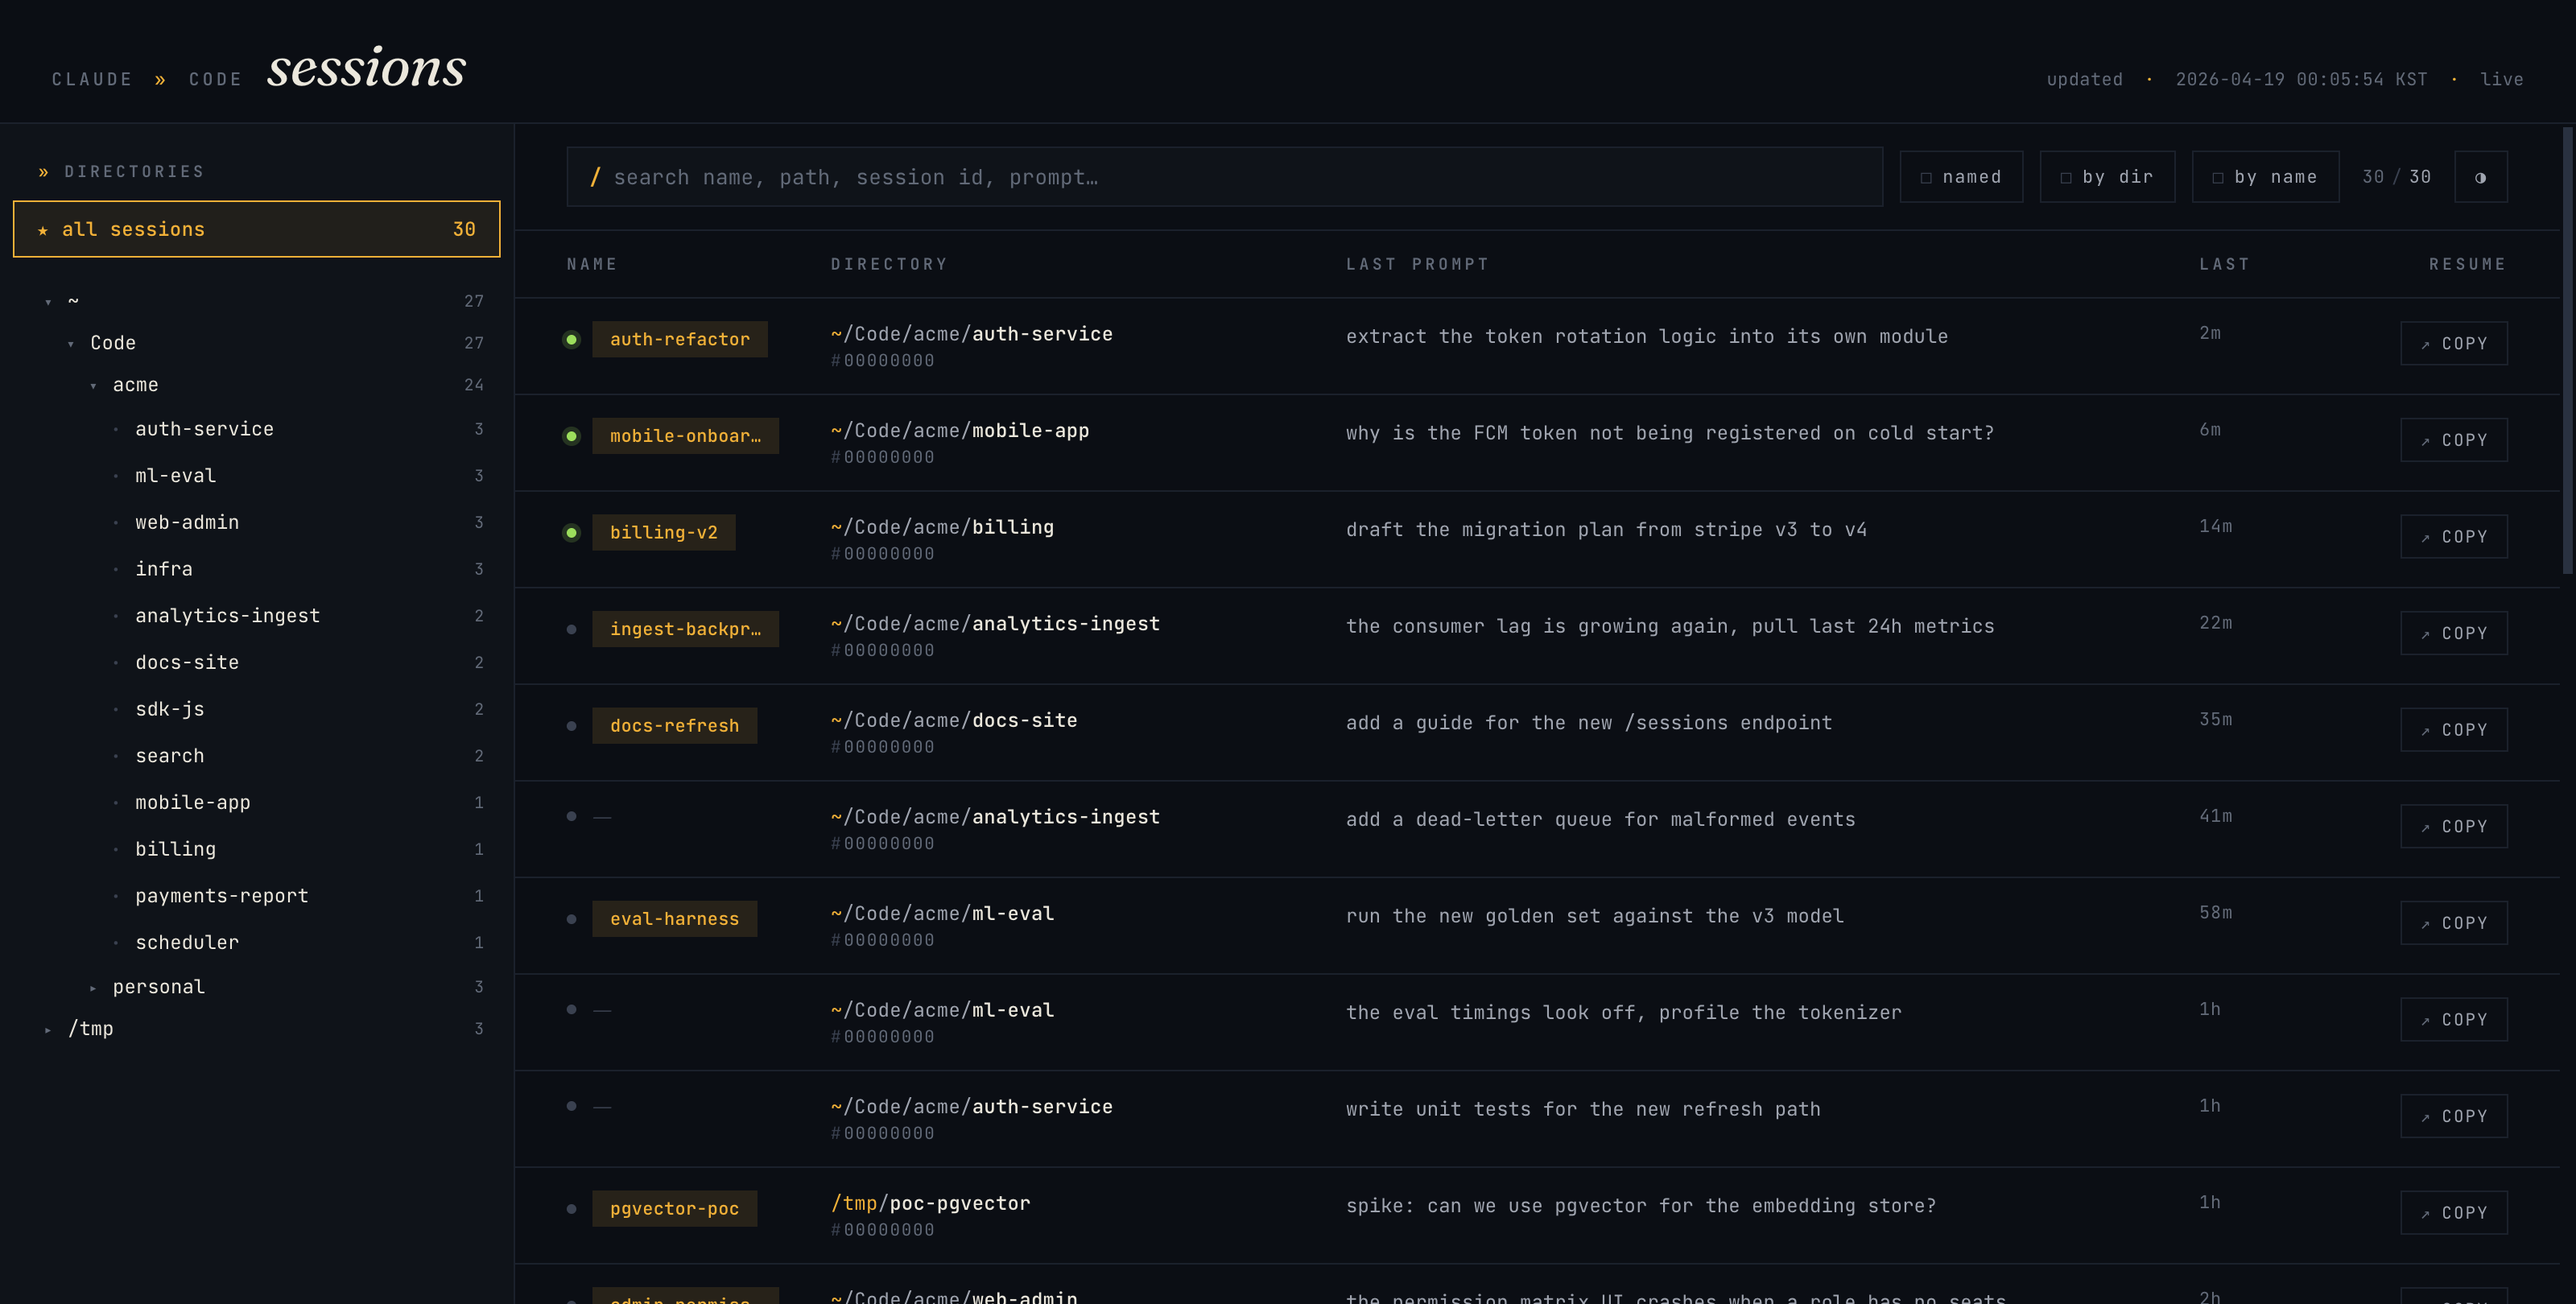
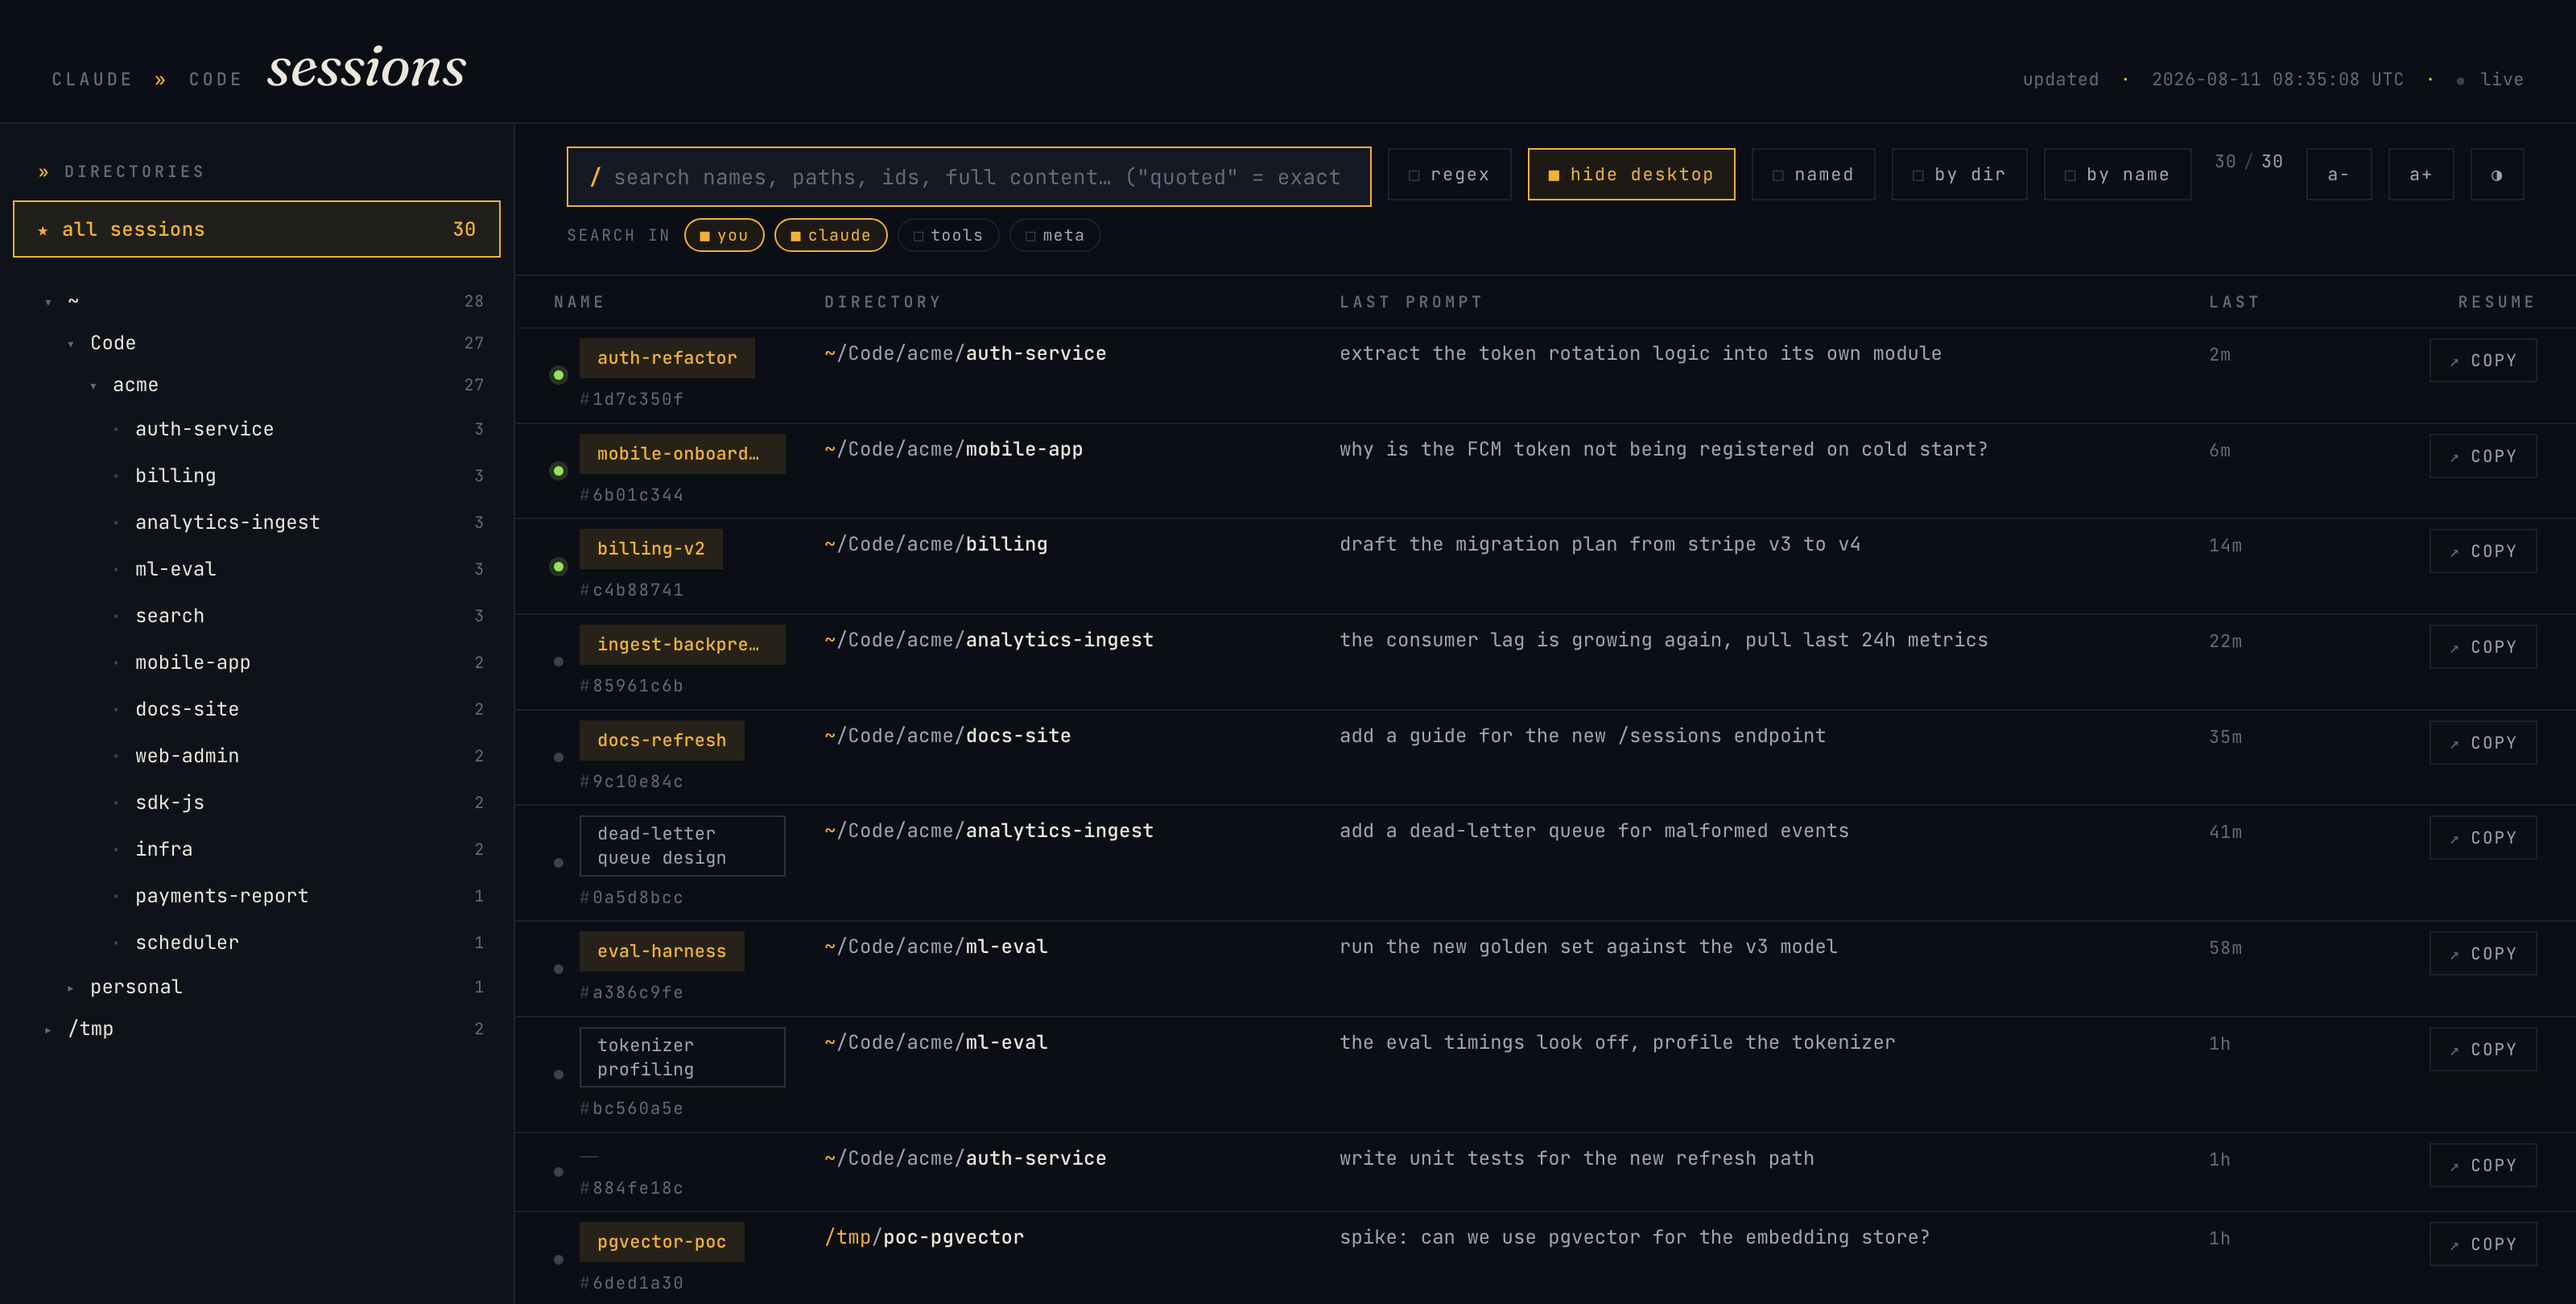
Synthesise test fixtures, refresh the screenshot, document cleanupPeriodDays
The phrase-search fixtures were lifted verbatim from a real work notification.
This repo is public and its own rules forbid committing real session text, so
they are now synthetic; the assertions are unchanged (word count, the reversed
scramble, and the two-message split all still hold, so the test proves the same
properties).

docs/screenshot.png predated the role-filter row, the regex / hide desktop
toggles and the current placeholder. Regenerated — and the generator now lives
in tools/ instead of being rewritten from scratch each time it vanishes from
/tmp. It rewrites the one real value the served page carries (the baked-in
HOME) and hard-asserts that substitution happened, so a template change fails
loudly rather than leaking a path into a committed image.

README gains a note that Claude Code deletes session files older than
cleanupPeriodDays at startup — 30 days by default, which silently caps how far
back reclaude can see.

diff --git a/tools/make-demo-screenshot.py b/tools/make-demo-screenshot.py
@@ -1,0 +1,109 @@
+#!/usr/bin/env python3
+"""Build docs/screenshot.png from synthetic rows. NEVER use real session data —
+this repo is public.
+
+  curl -s http://127.0.0.1:9999/ > /tmp/sample-for-screenshot.html
+  python3 tools/make-demo-screenshot.py
+  "/Applications/Google Chrome.app/Contents/MacOS/Google Chrome" --headless \
+    --disable-gpu --hide-scrollbars --force-device-scale-factor=2 \
+    --window-size=1600,810 --screenshot=docs/screenshot.png \
+    file:///tmp/sample-for-screenshot-demo.html
+
+The page's own script opens an EventSource on a relative /events, which fails
+under file://; we then call applySnapshot() ourselves with the demo rows.
+"""
+import hashlib
+import json
+import pathlib
+import re
+import time
+
+SRC = pathlib.Path("/tmp/sample-for-screenshot.html")
+DST = pathlib.Path("/tmp/sample-for-screenshot-demo.html")
+FAKE_HOME = "/Users/dev"
+
+
+def sid(seed: str) -> str:
+    h = hashlib.sha256(seed.encode()).hexdigest()
+    return f"{h[:8]}-{h[8:12]}-{h[12:16]}-{h[16:20]}-{h[20:32]}"
+
+
+# (name, ai_title, dir, prompt, minutes-ago, active)
+DEMO = [
+    ("auth-refactor", None, "Code/acme/auth-service", "extract the token rotation logic into its own module", 2, True),
+    ("mobile-onboarding", None, "Code/acme/mobile-app", "why is the FCM token not being registered on cold start?", 6, True),
+    ("billing-v2", None, "Code/acme/billing", "draft the migration plan from stripe v3 to v4", 14, True),
+    ("ingest-backpressure", None, "Code/acme/analytics-ingest", "the consumer lag is growing again, pull last 24h metrics", 22, False),
+    ("docs-refresh", None, "Code/acme/docs-site", "add a guide for the new /sessions endpoint", 35, False),
+    (None, "dead-letter queue design", "Code/acme/analytics-ingest", "add a dead-letter queue for malformed events", 41, False),
+    ("eval-harness", None, "Code/acme/ml-eval", "run the new golden set against the v3 model", 58, False),
+    (None, "tokenizer profiling", "Code/acme/ml-eval", "the eval timings look off, profile the tokenizer", 63, False),
+    (None, None, "Code/acme/auth-service", "write unit tests for the new refresh path", 71, False),
+    ("pgvector-poc", None, "poc-pgvector", "spike: can we use pgvector for the embedding store?", 78, False),
+    ("admin-permissions", None, "Code/acme/web-admin", "the permission matrix UI crashes when a role has no seats", 96, False),
+    (None, "flaky checkout test triage", "Code/acme/billing", "checkout_spec fails once every ~20 CI runs, find the race", 112, False),
+    ("sdk-release", None, "Code/acme/sdk-js", "cut the 2.4 release notes from the merged PRs", 130, False),
+    (None, None, "Code/acme/search", "why does the synonym filter drop single-character tokens?", 147, False),
+    ("infra-costs", None, "Code/acme/infra", "break down last month's spend by service and flag outliers", 165, False),
+    (None, "index rebuild runbook", "Code/acme/search", "write the runbook for a zero-downtime index rebuild", 183, False),
+    ("payments-report", None, "Code/acme/payments-report", "reconcile the refunds table against the ledger export", 201, False),
+    (None, None, "Code/acme/mobile-app", "the deep link opens the wrong tab on android 15", 224, False),
+    ("scheduler-retry", None, "Code/acme/scheduler", "jobs retry forever when the worker dies mid-lease", 246, False),
+    (None, "webhook signature check", "Code/acme/billing", "verify the stripe webhook signature before parsing", 268, False),
+    ("docs-search", None, "Code/acme/docs-site", "the site search returns nothing for hyphenated terms", 295, False),
+    (None, None, "Code/acme/web-admin", "add an empty state to the audit log table", 318, False),
+    ("ml-eval-cache", None, "Code/acme/ml-eval", "cache embeddings between eval runs, keyed by model id", 340, False),
+    (None, "grafana alert cleanup", "Code/acme/infra", "half the alerts are noise, prune the ones nobody acts on", 372, False),
+    ("sdk-types", None, "Code/acme/sdk-js", "the generated types lose optionality on nested unions", 401, False),
+    (None, None, "personal/notes", "summarise what I changed across acme this week", 438, False),
+    ("search-relevance", None, "Code/acme/search", "tune BM25 so exact title matches outrank body matches", 470, False),
+    (None, "auth latency spike", "Code/acme/auth-service", "p99 on /token doubled after the pool change", 505, False),
+    ("analytics-schema", None, "Code/acme/analytics-ingest", "the event schema needs a version field before we fan out", 540, False),
+    (None, None, "scratch", "quick script to diff two json exports field by field", 585, False),
+]
+
+now = time.time()
+rows = []
+for i, (name, ai_title, d, prompt, mins, active) in enumerate(DEMO):
+    cwd = f"/tmp/{d}" if d in ("poc-pgvector", "scratch") else f"{FAKE_HOME}/{d}"
+    rows.append({
+        "session_id": sid(f"demo-{i}"),
+        "cwd": cwd,
+        "custom_title": name,
+        "ai_title": ai_title,
+        "last_prompt": prompt,
+        "entrypoint": "cli",
+        "mtime": now - mins * 60,
+        "size": 40_000 + i * 3_100,
+        "lines": 120 + i * 17,
+        "active": active,
+    })
+
+generated = time.strftime("%Y-%m-%d %H:%M:%S UTC", time.gmtime(now))
+html = SRC.read_text()
+# The server bakes the real $HOME into the page; swap it so no real path can
+# reach the committed screenshot.
+html, n = re.subn(r'const HOME = "[^"]*";', f'const HOME = "{FAKE_HOME}";', html, count=1)
+assert n == 1, "HOME constant not found — did build_html() change?"
+# Expand the directory tree so the screenshot shows it doing its job; the page
+# reads this key on load, so it has to be set before the module script runs.
+# Tree paths are the PRETTY segments the sidebar renders ("~/Code/acme"), not
+# the real cwd — see buildTree()/prettySegs().
+tree_open = json.dumps(["~", "~/Code", "~/Code/acme"])
+preload = (
+    "<script>\n"
+    f"localStorage.setItem('sessions-tree-expanded', {json.dumps(tree_open)});\n"
+    "</script>\n"
+)
+assert "<script>" in html
+html = html.replace("<script>", preload + "<script>", 1)
+inject = (
+    "<script>\n"
+    "// screenshot fixture: synthetic rows, no real session data\n"
+    f"applySnapshot({json.dumps(rows, ensure_ascii=False)}, {json.dumps(generated)});\n"
+    "</script>\n"
+)
+assert "</body>" in html
+html = html.replace("</body>", inject + "</body>")
+DST.write_text(html)
+print(f"wrote {DST} ({len(html)} bytes, {len(rows)} rows)")

diff --git a/tests/test_phrase_search.py b/tests/test_phrase_search.py
@@ -48,11 +48,11 @@ def main() -> None:
         ordered = projects / "proj" / "session-ordered.jsonl"
         scrambled = projects / "proj" / "session-scrambled.jsonl"
         split = projects / "proj" / "session-split.jsonl"
-        make_jsonl(ordered, [("user", "메일 제목: 숙소 상태 정보 검토 안내 입니다")])
-        make_jsonl(scrambled, [("user", "안내 검토 정보 상태 숙소 순서가 뒤바뀐 문장")])
+        make_jsonl(ordered, [("user", "문서 제목: 색인 구조 변경 기록 초안 입니다")])
+        make_jsonl(scrambled, [("user", "초안 기록 변경 구조 색인 순서가 뒤바뀐 문장")])
         # every phrase word is in the file, but spread across two messages —
         # a phrase must land inside ONE message, so this must not match either.
-        make_jsonl(split, [("user", "숙소 상태"), ("assistant", "정보 검토 안내")])
+        make_jsonl(split, [("user", "색인 구조"), ("assistant", "변경 기록 초안")])
 
         def ids(q: str, roles: set[str] | None = None) -> set[str]:
             sids, _snips, _scores, _trunc = reclaude._search_sessions(q, roles=roles)
@@ -64,28 +64,28 @@ def main() -> None:
             print(f"  ok: {q!r} -> {sorted(got)}")
 
         # Unquoted: word-AND, so every file holding all the words matches.
-        expect("숙소 상태 정보 검토 안내", {"session-ordered", "session-scrambled", "session-split"})
+        expect("색인 구조 변경 기록 초안", {"session-ordered", "session-scrambled", "session-split"})
         # Quoted: only the file with the verbatim run.
-        expect('"숙소 상태 정보 검토 안내"', {"session-ordered"})
+        expect('"색인 구조 변경 기록 초안"', {"session-ordered"})
         # Phrase + bare word are ANDed; the bare word may live anywhere in file.
-        expect('"숙소 상태" 입니다', {"session-ordered"})
-        expect('"숙소 상태" 뒤바뀐', set())
+        expect('"색인 구조" 입니다', {"session-ordered"})
+        expect('"색인 구조" 뒤바뀐', set())
         # A phrase that exists nowhere.
-        expect('"상태 숙소 정보"', set())
+        expect('"변경 색인 구조"', set())
         # Role filter still applies to the message the phrase landed in:
-        # "정보 검토 안내" is verbatim in ordered's user line and in split's
+        # "변경 기록 초안" is verbatim in ordered's user line and in split's
         # assistant line, so each role sees only its own file.
-        expect('"정보 검토 안내"', {"session-ordered"}, {"user"})
-        expect('"정보 검토 안내"', {"session-split"}, {"assistant"})
+        expect('"변경 기록 초안"', {"session-ordered"}, {"user"})
+        expect('"변경 기록 초안"', {"session-split"}, {"assistant"})
 
         # A verbatim hit is ranked as a phrase hit (3), above word-AND noise.
-        _sids, _snips, scores, _t = reclaude._search_sessions('"숙소 상태 정보 검토 안내"')
+        _sids, _snips, scores, _t = reclaude._search_sessions('"색인 구조 변경 기록 초안"')
         assert scores.get("session-ordered") == 3, scores
         print("  ok: exact phrase scores 3")
 
         # Snippets point at the phrase, not at some unrelated single word.
-        _sids, snips, _scores, _t = reclaude._search_sessions('"숙소 상태 정보 검토 안내"')
-        assert snips["session-ordered"][0]["match"] == "숙소 상태 정보 검토 안내", snips
+        _sids, snips, _scores, _t = reclaude._search_sessions('"색인 구조 변경 기록 초안"')
+        assert snips["session-ordered"][0]["match"] == "색인 구조 변경 기록 초안", snips
         print("  ok: snippet match is the phrase")
 
         # The bigram index must narrow on the phrase's words, not on the raw
@@ -93,7 +93,7 @@ def main() -> None:
         while reclaude._index_pick_pending():
             p, mtime, size = reclaude._index_pick_pending()
             reclaude._index_file(p, mtime, size)
-        expect('"숙소 상태 정보 검토 안내"', {"session-ordered"})
+        expect('"색인 구조 변경 기록 초안"', {"session-ordered"})
         print("  ok: exact phrase survives a fully-built index")
 
         print("ALL OK")

diff --git a/README.md b/README.md
@@ -16,6 +16,16 @@ durable and complete, but not browsable. `reclaude` reads it live and
 surfaces the signal: what did I name this session, which directory was it in,
 what was I doing last?
 
+## Keep the history
+
+Claude Code deletes session files older than `cleanupPeriodDays` at startup —
+**30 days by default**, which quietly caps how far back `reclaude` can look.
+Raise it in `~/.claude/settings.json` before the sessions you'd want are gone:
+
+```json
+{ "cleanupPeriodDays": 3650 }
+```
+
 ## Install
 
 ### Homebrew (macOS, recommended)
